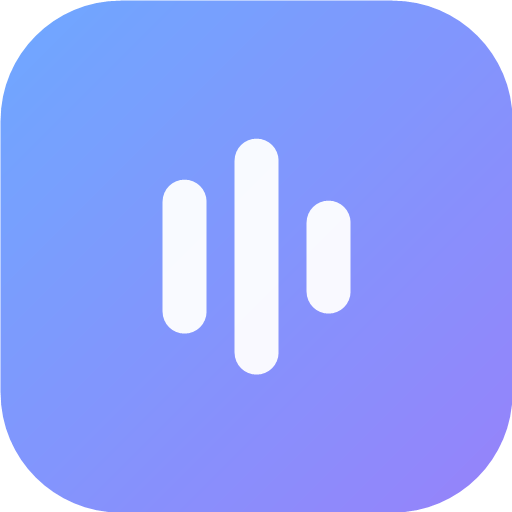
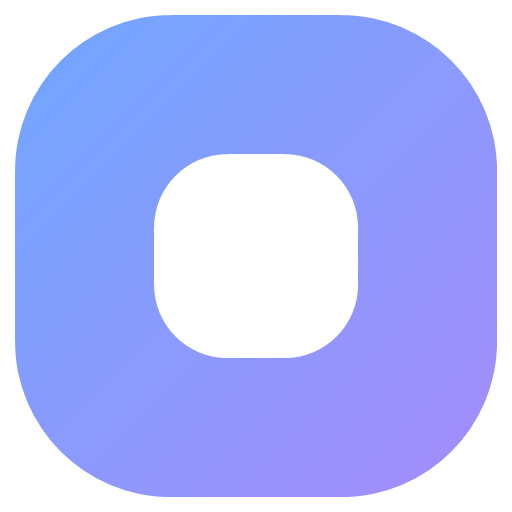
0.23.1: ikonki po logotipu

Changed region(s): [[0.0, 0.0, 1.0, 1.0], [0.2812, 0.25, 0.7188, 0.75]]

diff --git a/src/main.js b/src/main.js
@@ -115,7 +115,7 @@ const DEFAULT_SETTINGS = {
   },
   localSttModel: 'base',
   autoAnswer: true,
-  listen: true,
+  listen: false,
   silenceMs: 450,
   cloudMode: false,
   hotkeys: {
@@ -1906,6 +1906,12 @@ function registerIpc() {
     if (overlayWin && !overlayWin.isDestroyed()) overlayWin.hide();
   });
 
+  ipcMain.on('overlay:open', () => {
+    if (!overlayWin || overlayWin.isDestroyed()) return;
+    overlayWin.show();
+    overlayWin.moveTop();
+  });
+
   // Область текста ответа для перехвата колеса мыши в режиме суфлёра.
   ipcMain.on('overlay:answer-region', (_event, region) => {
     if (
@@ -2078,13 +2084,8 @@ app.whenReady().then(() => {
     // Прогрев не должен мешать старту — даём окну подняться.
     setTimeout(warmUp, 1500);
 
-    // Без ключа приложение бесполезно — сразу открываем настройки,
-    // чтобы не искать иконку в трее.
-    const setup = needsSetup();
-    if (setup || process.argv.includes('--settings')) {
-      console.log('[boot] opening settings');
-      setTimeout(createSettings, setup ? 1200 : 0);
-    }
+    // Приложение всегда стартует с настроек — оттуда открывается собеседование.
+    setTimeout(createSettings, 700);
 
     screen.on('display-metrics-changed', onDisplaysChanged);
     screen.on('display-added', onDisplaysChanged);

diff --git a/src/preload.js b/src/preload.js
@@ -36,6 +36,7 @@ contextBridge.exposeInMainWorld('api', {
   onWheelConsumed: (cb) => subscribe('overlay:wheel-consumed', cb),
   hideOverlay: () => ipcRenderer.send('overlay:hide'),
   openSettings: () => ipcRenderer.send('settings:open'),
+  openOverlay: () => ipcRenderer.send('overlay:open'),
   openTrainer: () => ipcRenderer.send('trainer:open'),
   openQuiz: () => ipcRenderer.send('quiz:open'),
   openMeeting: () => ipcRenderer.send('meeting:open'),

diff --git a/src/renderer/overlay.js b/src/renderer/overlay.js
@@ -1293,9 +1293,13 @@ async function boot() {
     }
   }
 
+  // Оверлей стартует на паузе: прослушивание включает сам пользователь.
+  stt.pausedByUser = true;
+  setListening(false, true);
+
   applySettings();
   await ensureSource();
-  setListening(settings.listen !== false, true);
+  setListening(false, true);
   applySettings();
 
   refreshCloudBalance();

diff --git a/src/renderer/settings.html b/src/renderer/settings.html
@@ -21,6 +21,9 @@
           </div>
         </div>
         <div class="head-actions">
+          <button type="button" class="ghost test-btn interview-btn" id="interviewBtn">
+            Собеседование
+          </button>
           <button type="button" class="ghost test-btn" id="trainerBtn">
             Тренажёр собеседования
           </button>

diff --git a/src/renderer/settings.css b/src/renderer/settings.css
@@ -433,6 +433,18 @@ select {
   color: var(--text);
 }
 
+.interview-btn {
+  color: #0b0f16;
+  background: linear-gradient(135deg, var(--accent), var(--accent-2));
+  border-color: transparent;
+}
+
+.interview-btn:hover {
+  color: #0b0f16;
+  border-color: transparent;
+  filter: brightness(1.06);
+}
+
 .test-btn:disabled {
   cursor: default;
   opacity: 0.55;

diff --git a/src/renderer/settings.js b/src/renderer/settings.js
@@ -1070,6 +1070,10 @@ function bind() {
     }
   });
 
+  $('interviewBtn').addEventListener('click', () => {
+    if (hasApi) window.api.openOverlay();
+  });
+
   $('trainerBtn').addEventListener('click', () => {
     if (hasApi) window.api.openTrainer();
   });

diff --git a/CHANGELOG.md b/CHANGELOG.md
@@ -2,6 +2,19 @@
 
 Все заметные изменения проекта. Версии — по semver: `major.minor.patch`.
 
+## 0.23.1 — 2026-11-03
+
+### Иконки
+- Иконка приложения и трея приведена к логотипу: скруглённый квадрат
+  с сине-фиолетовым градиентом и прозрачным отверстием.
+
+## 0.23.0 — 2026-11-03
+
+### Старт и собеседование
+- Приложение всегда запускается с окна настроек.
+- В шапке настроек появилась кнопка «Собеседование» — показывает оверлей.
+- Оверлей стартует на паузе: прослушивание включает сам пользователь.
+
 ## 0.22.2 — 2026-11-03
 
 ### Кнопка «получить список»
